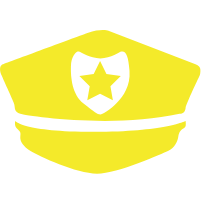
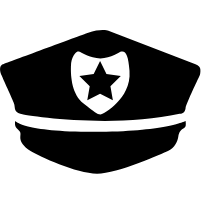
fix: 模拟模式选择持久化+同步函数内置simMode防护，防止误同步污染飞书

diff --git a/src/composables/useGame.ts b/src/composables/useGame.ts
@@ -262,6 +262,10 @@ export function useGame() {
       state.winMode = m
       persist()
     },
+    setSimMode(v: boolean) {
+      state.simMode = v
+      persist()
+    },
     setBoardRoles(roles: string[]): string | null {
       const err = g.setBoardRoles(state, roles)
       persist()
@@ -511,6 +515,7 @@ export function useGame() {
     },
     /** 手动同步最近一局到飞书（返回错误信息或 null） */
     async syncLastGame(): Promise<string | null> {
+      if (state.simMode) return "当前为模拟模式，不会同步到飞书"
       const rec = history.value[history.value.length - 1]
       if (!rec) return "暂无已结算的对局"
       syncStatus.value = "syncing"
@@ -523,6 +528,7 @@ export function useGame() {
     },
     /** 批量同步今日对局到飞书：逐局写复盘+累加排名，成功标记已同步，失败停止可重试（与自动同步互斥） */
     async syncDayGames(): Promise<{ ok: number; failed: number; err: string | null }> {
+      if (state.simMode) return { ok: 0, failed: 0, err: "当前为模拟模式，不会同步到飞书" }
       const list = todayGames.value.filter((h) => !h.synced && !syncingRefs.value.has(h))
       if (!list.length) return { ok: 0, failed: 0, err: "今天没有待同步的对局" }
       syncStatus.value = "syncing"
@@ -550,6 +556,7 @@ export function useGame() {
     },
     /** 单场同步（历史对局用）：校验未同步+互斥，成功标记已同步，可重试 */
     async syncRecord(rec: GameRecord): Promise<string | null> {
+      if (state.simMode) return "当前为模拟模式，不会同步到飞书"
       if (rec.synced || syncingRefs.value.has(rec)) return "该局已同步或正在同步"
       syncingRefs.value.add(rec)
       syncStatus.value = "syncing"
@@ -580,6 +587,7 @@ export function useGame() {
     },
     /** 测试同步：模拟新玩家（排名表/复盘表各加一行测试数据） */
     async testSync(): Promise<string | null> {
+      if (state.simMode) return "当前为模拟模式，不会同步到飞书"
       syncStatus.value = "testing"
       const err = await simulateSyncNewPlayer()
       syncStatus.value = err ? `⚠ 测试同步失败：${err}` : "✅ 已模拟新玩家同步（排名表积分列末尾新增一行）"

diff --git a/src/components/BoardSignupPanel.vue b/src/components/BoardSignupPanel.vue
@@ -268,7 +268,7 @@ function onPoolPointerEnd(e: PointerEvent) {
       </template>
       <div v-if="!state.playersConfirmed" class="mode-select-row">
         <span class="field-label">对局模式</span>
-        <a-radio-group :value="state.simMode" @change="(e: any) => { state.simMode = e.target.value }">
+        <a-radio-group :value="state.simMode" @change="(e: any) => actions.setSimMode(e.target.value)">
           <a-radio :value="false">🎯 真实对局</a-radio>
           <a-radio :value="true">🧪 模拟对局</a-radio>
         </a-radio-group>
